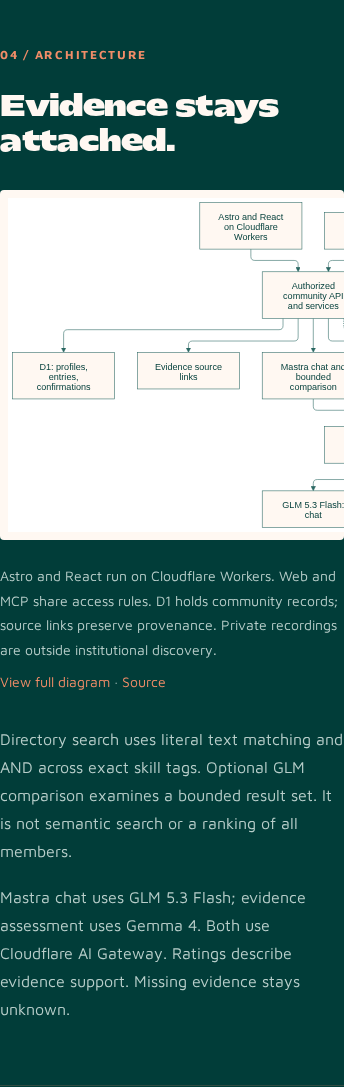
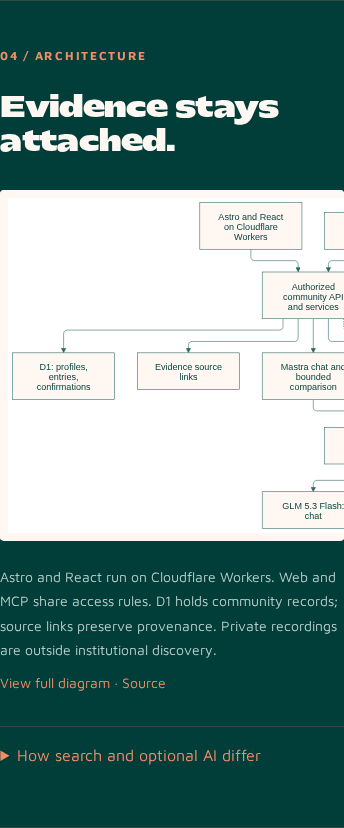
Add recorded fictional journey examples to organizer page

diff --git a/web/src/components/hackathon/OrganizerPage.tsx b/web/src/components/hackathon/OrganizerPage.tsx
@@ -120,6 +120,27 @@ export default function OrganizerPage() {
                   Publish contributions and sources. Keep drafts private. Update
                   the story as the work changes.
                 </p>
+                <details className="hack-reveal">
+                  <summary>See the member example</summary>
+                  <figure className="hack-screen">
+                    <a
+                      href="/hackathon/member-contribution.webp"
+                      aria-label="View full member example"
+                    >
+                      <img
+                        src="/hackathon/member-contribution.webp"
+                        width="1920"
+                        height="1080"
+                        loading="lazy"
+                        alt="Journey page for fictional David Wanjiku showing a saved contribution and member-attached source, with no confirmation recorded."
+                      />
+                    </a>
+                    <figcaption>
+                      A member’s contribution with its source, marked
+                      member-reported until someone checks it.
+                    </figcaption>
+                  </figure>
+                </details>
               </article>
               <article>
                 <span className="hack-number">02</span>
@@ -128,6 +149,27 @@ export default function OrganizerPage() {
                   Record what they checked on a specific contribution revision.
                   This does not certify every skill or claim.
                 </p>
+                <details className="hack-reveal">
+                  <summary>See the mentor example</summary>
+                  <figure className="hack-screen">
+                    <a
+                      href="/hackathon/mentor-confirmation.webp"
+                      aria-label="View full mentor example"
+                    >
+                      <img
+                        src="/hackathon/mentor-confirmation.webp"
+                        width="1920"
+                        height="1080"
+                        loading="lazy"
+                        alt="Confirmation history showing fictional mentor Amina Wanjiku’s statement and method, attached to claim revision 1."
+                      />
+                    </a>
+                    <figcaption>
+                      A mentor records what they personally checked, attached to
+                      that revision, not to the whole person.
+                    </figcaption>
+                  </figure>
+                </details>
               </article>
               <article>
                 <span className="hack-number">03</span>
@@ -136,8 +178,33 @@ export default function OrganizerPage() {
                   Find eligible members, inspect claims, sources and
                   confirmations, then ask evidence-grounded questions.
                 </p>
+                <details className="hack-reveal">
+                  <summary>See the institution example</summary>
+                  <figure className="hack-screen">
+                    <a
+                      href="/hackathon/institution-evidence.webp"
+                      aria-label="View full institution example"
+                    >
+                      <img
+                        src="/hackathon/institution-evidence.webp"
+                        width="1920"
+                        height="1080"
+                        loading="lazy"
+                        alt="Fictional David Wanjiku’s contribution, source and mentor confirmation. Optional assessment and chat tools are visible but not in use."
+                      />
+                    </a>
+                    <figcaption>
+                      An approved institution reads the claim, the source and
+                      the scoped confirmation; people decide.
+                    </figcaption>
+                  </figure>
+                </details>
               </article>
             </div>
+            <p className="hack-note">
+              Staging demo (build aab6b3e, 25 Oct 2026). Fictional personas and
+              data. Expand an example; select its image to view full size.
+            </p>
             <Diagram
               name="journeys"
               title="Member, mentor and institution journeys with admin role approval"
@@ -186,16 +253,19 @@ export default function OrganizerPage() {
               provenance. Private recordings are outside institutional
               discovery.
             </Diagram>
-            <p>
-              Directory search uses literal text matching and AND across exact
-              skill tags. Optional GLM comparison examines a bounded result set.
-              It is not semantic search or a ranking of all members.
-            </p>
-            <p>
-              Mastra chat uses GLM 5.3 Flash; evidence assessment uses Gemma 4.
-              Both use Cloudflare AI Gateway. Ratings describe evidence support.
-              Missing evidence stays unknown.
-            </p>
+            <details className="hack-reveal">
+              <summary>How search and optional AI differ</summary>
+              <p>
+                Directory search uses literal text matching and AND across exact
+                skill tags. Optional GLM comparison examines a bounded result
+                set. It is not semantic search or a ranking of all members.
+              </p>
+              <p>
+                Mastra chat uses GLM 5.3 Flash; evidence assessment uses Gemma
+                4. Both use Cloudflare AI Gateway. Ratings describe evidence
+                support. Missing evidence stays unknown.
+              </p>
+            </details>
           </section>
           <section id="team">
             <p className="hack-eyebrow">05 / Process</p>
@@ -228,19 +298,6 @@ export default function OrganizerPage() {
               desktop and mobile. These checks do not establish hiring outcomes
               or model quality.
             </p>
-            <figure className="hack-screen">
-              <img
-                src="/hackathon/discovery-desktop.png"
-                width="1440"
-                height="1220"
-                loading="lazy"
-                alt="Fictional local Discover interface showing the selected lookup mode and name search field."
-              />
-              <figcaption>
-                Local fictional UI capture, 25 October. Not live authentication
-                or a model evaluation.
-              </figcaption>
-            </figure>
             <p>
               Citation attribution and unsupported ordering failed during QA.
               Code fixes do not establish fresh model-quality validation. The

diff --git a/web/e2e/organizer.browser.ts b/web/e2e/organizer.browser.ts
@@ -17,6 +17,17 @@ for (const width of [390, 1440]) {
       await link.click();
       await expect(page.locator(href!)).toBeVisible();
     }
+    for (const disclosure of await page.locator("details").all()) {
+      const summary = disclosure.locator("summary");
+      await summary.focus();
+      await page.keyboard.press("Enter");
+      await expect(disclosure).toHaveAttribute("open", "");
+      await page.keyboard.press("Space");
+      await expect(disclosure).not.toHaveAttribute("open", "");
+      await summary.click();
+      await expect(disclosure).toHaveAttribute("open", "");
+    }
+    await expect(page.locator("details")).toHaveCount(4);
     for (const image of await page.getByRole("img").all()) {
       await image.scrollIntoViewIfNeeded();
       await expect
@@ -31,6 +42,11 @@ for (const width of [390, 1440]) {
       ),
     ).toBe(true);
     await expect(page.locator("form,input,textarea")).toHaveCount(0);
+    await page
+      .locator("#journeys")
+      .screenshot({
+        path: `../docs/hackathon/organizer-2026-10-25/journeys-${width}.png`,
+      });
     await page.goto("/organizer.html");
     await page.keyboard.press("Tab");
     await expect(
@@ -43,13 +59,23 @@ for (const width of [390, 1440]) {
       path: `../docs/hackathon/organizer-2026-10-25/overview-${width}.png`,
       fullPage: true,
     });
-    await page.screenshot({path:`../docs/hackathon/organizer-2026-10-25/hero-${width}.png`});
-    await page.locator('#architecture').screenshot({path:`../docs/hackathon/organizer-2026-10-25/architecture-${width}.png`});
-    const region=page.getByRole('region', {name:'Web and MCP use shared authorized services, D1 and optional model routes'});
+    await page.screenshot({
+      path: `../docs/hackathon/organizer-2026-10-25/hero-${width}.png`,
+    });
+    await page
+      .locator("#architecture")
+      .screenshot({
+        path: `../docs/hackathon/organizer-2026-10-25/architecture-${width}.png`,
+      });
+    const region = page.getByRole("region", {
+      name: "Web and MCP use shared authorized services, D1 and optional model routes",
+    });
     await region.focus();
-    if(width === 390) {
-      await page.keyboard.press('ArrowRight');
-      await expect.poll(()=>region.evaluate(el=>el.scrollLeft)).toBeGreaterThan(0);
+    if (width === 390) {
+      await page.keyboard.press("ArrowRight");
+      await expect
+        .poll(() => region.evaluate((el) => el.scrollLeft))
+        .toBeGreaterThan(0);
     }
     expect(errors).toEqual([]);
   });

diff --git a/web/src/styles/hackathon.css b/web/src/styles/hackathon.css
@@ -385,3 +385,25 @@
   color: var(--hack-accent);
   text-underline-offset: 3px;
 }
+
+.hack-reveal {
+  border-top: 1px solid var(--color-rule);
+  margin-top: 20px;
+}
+.hack-reveal summary {
+  cursor: pointer;
+  color: var(--hack-accent);
+  padding: 16px 0;
+  min-height: 48px;
+}
+.hack-reveal summary:focus-visible {
+  outline: 2px solid var(--hack-accent);
+  outline-offset: 4px;
+}
+.hack-reveal[open] summary {
+  border-bottom: 1px solid var(--color-rule);
+  margin-bottom: 16px;
+}
+.hack-reveal .hack-screen {
+  margin: 16px 0 0;
+}

diff --git a/docs/hackathon/organizer-2026-10-25/stills-provenance.md b/docs/hackathon/organizer-2026-10-25/stills-provenance.md
@@ -1,0 +1,24 @@
+# TTV staging stills for the public /openai-hackathon page (fictional data only)
+
+**Source:** frames taken from the original persona-QA desktop recordings on staging build `aab6b3e`, recorded 2026-10-25, 14:12–14:17 UTC. No recapture or credentials were used. All people, profiles and contributions shown are **fictional demo personas**. There are no real users, URL bars, tokens or developer tools in frame.
+
+**Recorder artefacts to know about:**
+- The small peach ring is the recorder's cursor marker, not product UI.
+- The contribution title prefix "Fictional QA ee10d30…:" is a label the QA write path requires; it's not a feature.
+- No Raph footage or photos, and no private motivation material.
+
+**Formats:** `-1920.png` is lossless, `-1920.webp` is q86, `-1280.webp` is q84. All are 16:9.
+
+| File | Suggested public caption | Alt text |
+|---|---|---|
+| ttv-01-member-adds-contribution | A member describes their own contribution and links a source. Saving shares it with approved institutions and mentors. | Contribution form for fictional member David Wanjiku, with an entry title, a description of building an offline sync queue, a date and an example source link. A notice says saving shares the contribution with approved institutions and mentors. |
+| ttv-02-member-contribution-saved | The saved entry appears in the member's journey, marked "member-reported · no confirmation recorded". | Journey page for fictional member David Wanjiku showing the saved contribution with its member-attached source, labelled member-reported with no confirmation recorded. |
+| ttv-03-mentor-records-what-they-checked | A mentor records what they personally checked, and how, for one contribution revision. | Mentor review form for a fictional contribution, claim revision 1, with the decision "Confirm this claim" and filled-in fields for how it was checked and what was personally checked. |
+| ttv-04-mentor-confirmation-history | The confirmation is attached to that specific revision, not to the whole person. | Confirmation history showing "Checked by Fictional Amina Wanjiku", role Mentor, the statement and method, revision 1, claim-specific confirmation. |
+| ttv-05-institution-discovery-results | An approved institution searches by skill. Results are alphabetical, not a ranking, and people make the decision. | Discover page titled "Find the person. See the work." showing 15 fictional builders for Kotlin, a fictional opportunity description, and the note that the list is not an overall ranking. |
+| ttv-06-institution-evidence-view | The institution reads the member's claim, the attached source and the mentor's scoped confirmation. | Profile evidence for fictional David Wanjiku: the contribution, the member-attached source and the confirmation checked by fictional mentor Amina Wanjiku at revision 1. Side panel with the optional Assess evidence and Ask about the work tools. |
+
+**Claim guardrails for page copy:**
+- Discovery is a literal skill/name filter: alphabetical, capped at 50, not semantic or a ranking.
+- The AI tools (evidence ordering/chat, evidence assessment) are optional and run on request. They do not run automatically in the directory, and these stills don't show them in use.
+- No hiring or placement outcomes.
